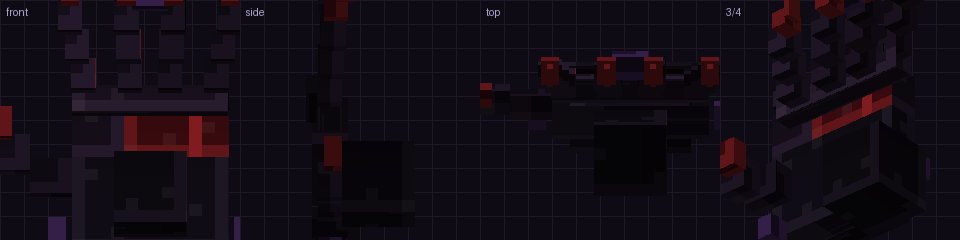
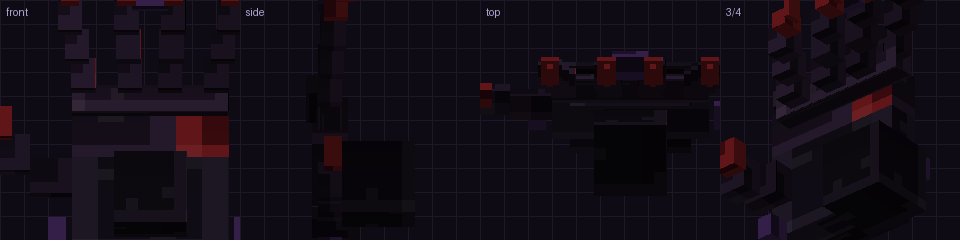
feat(黑夜之手贴图): 把 palm 那块 12x12 从中间劈成 palm(掌心,+Z)/palm_back(手背,-Z) 两块 6x12 —— 原先掌板两个大面共用同一块 UV, 手心和手背长得一模一样(作者: 哪边是掌心); box() 新增 north_mat 只给手背面换材质; bbmodel 生成器方块名改成列出全部材质(掌板显示 palm+palm_back)并按图集顺序归组; README 更新图集表与两面分画说明; 几何 from/to 一字未动, 回环比对 0 差异

Changed region(s): [[0.125, 0.4667, 0.2188, 0.6417], [0.8438, 0.4083, 0.9062, 0.5833]]

diff --git a/tools/gen_dark_hand_bbmodel.py b/tools/gen_dark_hand_bbmodel.py
@@ -58,41 +58,63 @@ def load_generator():
     return module
 
 
-def material_of(gen, faces):
-    """按面的 UV 落在图集哪一块矩形里，反推材质名 ✓（认不出就退回 cube）。
+def materials_of(gen, faces):
+    """这块方块用到了哪几块贴图区域 ✓（可能不止一块），按**图集声明顺序**排。
 
-    ★ 不能只看"第一个面的 UV 起点落在哪块里" ✗ —— 图集里两块矩形会**重叠**：
-      `palm` 是 x 8..20 / y 0..12，`claw` 是 x 12..22 / y 8..18，
-      爪子那 9 个方块的面 UV 起点是 (12, 8)，**两块都命中** ⇒ 取先出现的会把爪子标成 palm ✗
-      （实测：第一次生成时 9 个 claw 全被标成 palm ✓ 就是这么来的）。
-    正确判据：**整块方块的 UV 跨度被哪块矩形完整包含**，包含的那几块里取**面积最小**的
-    （＝最具体的那块）✓；一个都不完整包含时，退回"中心最近" ✓；再不行才叫 cube ✓。
+    ★ 为什么要分两级判（2026-10-10 踩过两次 ✗）：
+      图集里的矩形**会重叠** —— `claw`(x12..22,y8..18) 与 `palm`(x8..14,y0..12) 就重叠，
+      爪子的面 UV 正好落在重叠区 ⇒ 只按"哪块包含它"去判会随机站错队
+      （拆完 palm 之后它面积变小，9 个爪子一度又被判成 palm ✗）。
+      所以：
+        ① **先看整块方块的 UV 跨度**落在哪块里 —— 唯一命中就用它 ✓（腕/指/爪/灵光都走这条）；
+        ② 一个都没唯一命中，说明这块方块**一面一块贴图**（掌板：south 掌心用 `palm`、
+           north 手背用 `palm_back`）⇒ 逐面判，取并集 ✓；
+      逐面判时同样取"完整包含它的**最小**那块"（最具体 ✓），都不完整包含就取中心最近的 ✓。
     """
     uvs = [f["uv"] for f in faces.values() if "uv" in f]
     if not uvs:
-        return "cube"
+        return ["cube"]
     u0 = min(u[0] for u in uvs)
     v0 = min(u[1] for u in uvs)
     u1 = max(u[2] for u in uvs)
     v1 = max(u[3] for u in uvs)
 
-    containing = []
-    for name, rect in gen.ATLAS.items():
+    def contains(rect, a0, b0, a1, b1):
         x, y, w, h = rect[0]
-        if x <= u0 and u1 <= x + w and y <= v0 and v1 <= y + h:
-            containing.append((w * h, name))
-    if containing:
-        containing.sort()
-        return containing[0][1]
+        return x <= a0 and a1 <= x + w and y <= b0 and b1 <= y + h
 
-    cu, cv = (u0 + u1) / 2.0, (v0 + v1) / 2.0
-    best, best_distance = None, None
-    for name, rect in gen.ATLAS.items():
-        x, y, w, h = rect[0]
-        distance = (cu - (x + w / 2.0)) ** 2 + (cv - (y + h / 2.0)) ** 2
-        if best_distance is None or distance < best_distance:
-            best, best_distance = name, distance
-    return best or "cube"
+    whole = [name for name, rect in gen.ATLAS.items() if contains(rect, u0, v0, u1, v1)]
+    if len(whole) == 1:
+        return whole
+
+    found = []
+    for face in faces.values():
+        if "uv" not in face:
+            continue
+        a0, b0, a1, b1 = face["uv"]
+        best = None
+        for name, rect in gen.ATLAS.items():
+            if contains(rect, a0, b0, a1, b1):
+                area = rect[0][2] * rect[0][3]
+                if best is None or area < best[0]:
+                    best = (area, name)
+        if best is None:
+            cu, cv = (a0 + a1) / 2.0, (b0 + b1) / 2.0
+            distance = None
+            for name, rect in gen.ATLAS.items():
+                x, y, w, h = rect[0]
+                d = (cu - (x + w / 2.0)) ** 2 + (cv - (y + h / 2.0)) ** 2
+                if distance is None or d < distance:
+                    best, distance = (0, name), d
+        if best and best[1] not in found:
+            found.append(best[1])
+
+    if not found:
+        return ["cube"]
+    # 按图集**声明顺序**排 ⇒ 掌板那块的第一块是 `palm`（分组落在 palm 上，最好找 ✓）
+    order = list(gen.ATLAS.keys())
+    found.sort(key=lambda n: order.index(n) if n in order else len(order))
+    return found
 
 
 def build():
@@ -105,7 +127,11 @@ def build():
     elements = []
     by_material = {}
     for src in model["elements"]:
-        mat = material_of(gen, src.get("faces", {}))
+        mats = materials_of(gen, src.get("faces", {}))
+        # 方块名 = 用到的全部材质（掌板会是 `palm+palm_back` ✓）；
+        # 分组按**第一块**（＝最具体/最先遇到的那块）⇒ Outliner 仍然是 9 组，干净 ✓
+        primary = mats[0]
+        name = "+".join(mats)
         rot = src.get("rotation") or {}
         angle = rot.get("angle", 0) or 0
         axis = rot.get("axis", "y")
@@ -118,7 +144,7 @@ def build():
             rotation[2] = angle
 
         element = {
-            "name": mat,
+            "name": name,
             "box_uv": False,
             "render_order": "default",
             "rescale": False,
@@ -139,7 +165,7 @@ def build():
             "uuid": str(uuid.uuid4()),
         }
         elements.append(element)
-        by_material.setdefault(mat, []).append(element["uuid"])
+        by_material.setdefault(primary, []).append(element["uuid"])
 
     # 按材质分组（Blockbench 左侧 outliner 里能整组点选 ✓）
     outliner = []

diff --git a/tools/gen_dark_hand_model.py b/tools/gen_dark_hand_model.py
@@ -80,7 +80,17 @@ TEX = 32   # texture is 32x32; every UV below is in whole pixels of this atlas
 ATLAS = {
     # name          (x, y, w, h)   base        edge        accent
     "wrist":        ((0, 0, 8, 8), (13, 10, 16), (22, 17, 27), (6, 4, 8)),
-    "palm":         ((8, 0, 12, 12), (17, 13, 21), (28, 21, 34), (8, 6, 10)),
+    # ★★ 2026-10-10 第二刀（作者："哪边是掌心" → 要能分开画）：
+    #    原来 `palm` 是一整块 12x12，而**掌板的两个大面共用同一块 UV**
+    #    （north 手背 和 south 掌心 都是 [8,0,20,12]）⇒ 游戏里手心和手背长得一模一样 ✗，
+    #    作者根本认不出哪面是掌心 ✓。
+    #    现在把这块从中间劈成两半：
+    #        palm       x 8..13  ← 掌心那面（south = +Z）+ 其余四个侧面
+    #        palm_back  x 14..19 ← **手背**那面（north = -Z）
+    #    两块面积一样大（6x12 各一），作者就能把两面画得完全不同 ✓。
+    "palm":         ((8, 0, 6, 12), (17, 13, 21), (28, 21, 34), (8, 6, 10)),
+    # 手背：默认比掌心**再暗一档** ⇒ 就算作者还没画，两面也已经能分出来了 ✓
+    "palm_back":    ((14, 0, 6, 12), (13, 10, 16), (21, 16, 25), (6, 4, 9)),
     "back":         ((20, 0, 8, 8), (12, 9, 15), (20, 15, 24), (5, 4, 7)),
     "digit_0":      ((0, 8, 12, 6), (21, 15, 25), (34, 24, 40), (8, 6, 11)),
     "digit_1":      ((0, 14, 12, 6), (18, 13, 22), (29, 20, 35), (7, 5, 9)),
@@ -122,8 +132,14 @@ def atlas_rect(name):
 # ----------------------------------------------------------------------------
 #  geometry helpers
 # ----------------------------------------------------------------------------
-def box(frm, to, mat, uv_face=None):
-    """One axis-aligned cube. frm/to are [x,y,z] in model units (1 unit = 1/16 block)."""
+def box(frm, to, mat, uv_face=None, north_mat=None):
+    """One axis-aligned cube. frm/to are [x,y,z] in model units (1 unit = 1/16 block).
+
+    north_mat: 可选的**手背面专用材质** ✓（2026-10-10 加）。
+      模型的 `north` 面就是 -Z 那一面 —— 对掌板来说它是**手背**，而 `south`（+Z）是**掌心** ✓。
+      默认六个面共用同一块材质 ⇒ 手心和手背一模一样 ✗（作者："哪边是掌心"）。
+      传了 north_mat 之后，只有 north 那一个面改用另一块贴图区域 ⇒ 两面可以画得完全不同 ✓。
+    """
     x0, y0, z0 = frm
     x1, y1, z1 = to
     assert x1 > x0 and y1 > y0 and z1 > z0, "box must have positive size: %r -> %r" % (frm, to)
@@ -156,13 +172,20 @@ def box(frm, to, mat, uv_face=None):
         vh = max(1, min(vh, TEX - v))
         return {"uv": [u, v, u + uw, v + vh], "texture": "#0"}
 
+    # ★ 手背面单独用另一块材质（见 north_mat 的说明）✓
+    if north_mat:
+        nx, ny, nw, nh = atlas_rect(north_mat)
+        north_face = face(nx, ny, span(nw, nx, x1 - x0), span(nh, ny, y1 - y0))
+    else:
+        north_face = face(ax + fx, ay + fy, w, h)
+
     return {
         "from": [x0, y0, z0],
         "to": [x1, y1, z1],
         "rotation": {"angle": 0, "axis": "y", "origin": [x0, y0, z0]},
         "faces": {
             # north/south are the XY faces (size w x h)
-            "north": face(ax + fx, ay + fy, w, h),
+            "north": north_face,
             "south": face(ax + (aw - w - fx) % max(1, aw - w + 1), ay + fy, w, h),
             # east/west are the ZY faces (size d x h)
             "east": face(ax + fx, ay + ((fy + h) % max(1, ah - h + 1)), d, h),
@@ -227,7 +250,9 @@ def build_boxes():
     # 手腕：沿 -Z 直直往后（短，不是前臂）
     b.append(box([-3, -3, -7], [3, 3, -1], "wrist"))
     # 手掌平板：它的 +Z 面就是掌心
-    b.append(box([-6.5, -6, -1.5], [6.5, 6, 1.5], "palm"))
+    # ★ 2026-10-10：**手背（north = -Z）改用 palm_back** ✓ —— 原来两面共用一块 UV，
+    #   游戏里手心和手背一模一样，作者认不出哪面是掌心 ✗（见 ATLAS 里那两块的说明）
+    b.append(box([-6.5, -6, -1.5], [6.5, 6, 1.5], "palm", north_mat="palm_back"))
     # 掌根（靠手腕那侧稍厚一点）
     b.append(box([-5, -7, -2.5], [5, -3, 1.5], "back"))
     # 掌指关节横条
